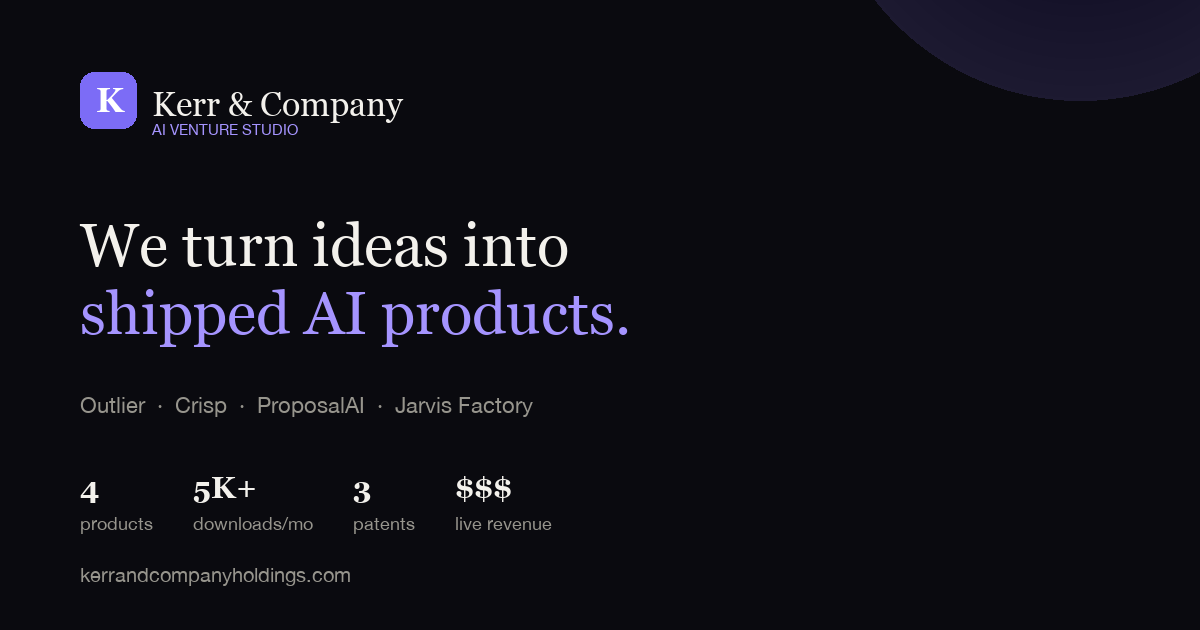
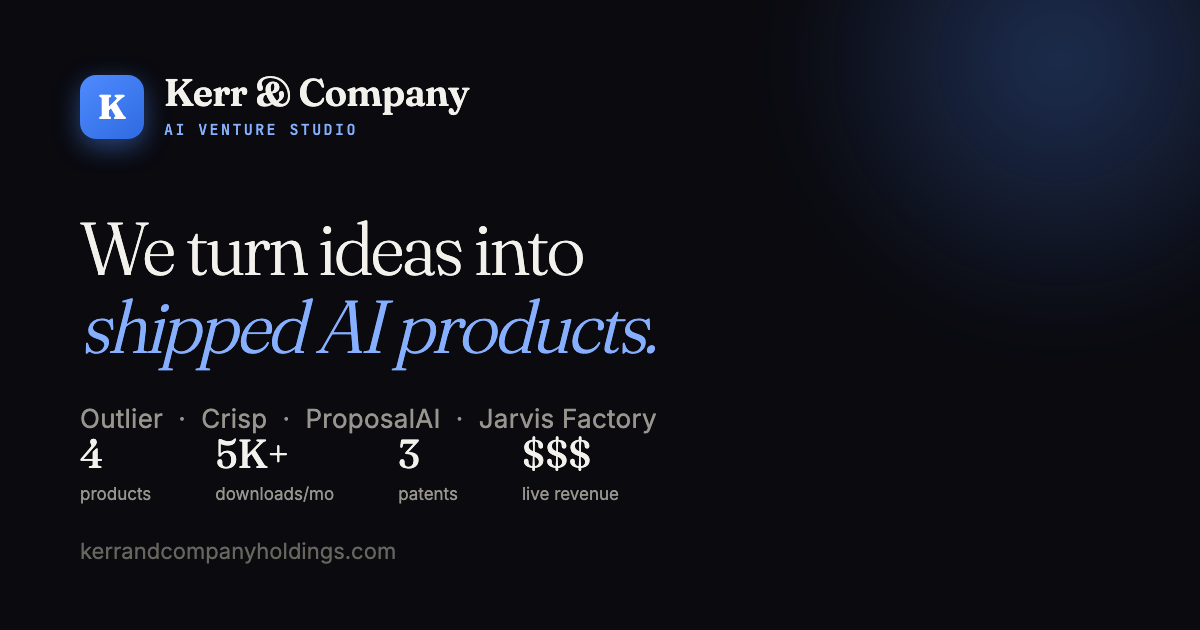
Switch studio theme from purple to blue
Recolor accent palette (CSS vars, gradients, glows, shadows) from violet
to blue, and regenerate favicon, app icons, and OG card to match.

diff --git a/index.html b/index.html
@@ -57,9 +57,9 @@
       --ink-2: #c6c4bd;
       --ink-3: #97958d;
       --ink-4: #66655e;
-      --accent: #8b7bff;
-      --accent-2: #a594ff;
-      --accent-soft: rgba(139,123,255,0.14);
+      --accent: #4f8bff;
+      --accent-2: #86b0ff;
+      --accent-soft: rgba(79,139,255,0.14);
       --gold: #e9b872;
       --green: #5fd38d;
       --green-soft: rgba(95,211,141,0.12);
@@ -80,7 +80,7 @@
 
     /* ambient glows */
     .glow { position: fixed; border-radius: 50%; filter: blur(80px); pointer-events: none; z-index: 0; opacity: 0.55; }
-    .glow-1 { top: -260px; right: -160px; width: 620px; height: 620px; background: radial-gradient(circle, rgba(139,123,255,0.28), transparent 70%); }
+    .glow-1 { top: -260px; right: -160px; width: 620px; height: 620px; background: radial-gradient(circle, rgba(79,139,255,0.28), transparent 70%); }
     .glow-2 { bottom: -300px; left: -200px; width: 560px; height: 560px; background: radial-gradient(circle, rgba(233,184,114,0.10), transparent 70%); }
 
     .wrap { max-width: var(--maxw); margin: 0 auto; padding: 0 clamp(1.25rem, 5vw, 2.5rem); position: relative; z-index: 1; }
@@ -97,8 +97,8 @@
     .brand { display: flex; align-items: center; gap: 0.6rem; text-decoration: none; }
     .brand-mark {
       width: 32px; height: 32px; border-radius: 9px; display: flex; align-items: center; justify-content: center;
-      background: linear-gradient(140deg, var(--accent), #6d5cf0); color: #fff;
-      font-family: var(--serif); font-weight: 700; font-size: 1rem; box-shadow: 0 4px 16px rgba(139,123,255,0.4);
+      background: linear-gradient(140deg, var(--accent), #2f6ae0); color: #fff;
+      font-family: var(--serif); font-weight: 700; font-size: 1rem; box-shadow: 0 4px 16px rgba(79,139,255,0.4);
     }
     .brand-name { font-family: var(--serif); font-weight: 600; font-size: 1.02rem; letter-spacing: -0.01em; }
     .brand-name em { font-style: normal; color: var(--ink-3); font-weight: 400; font-family: var(--sans); font-size: 0.78rem; }
@@ -111,7 +111,7 @@
       background: var(--accent); padding: 0.5rem 1.1rem; border-radius: 8px; white-space: nowrap;
       transition: background .15s, transform .15s, box-shadow .15s;
     }
-    .nav-cta:hover { background: var(--accent-2); transform: translateY(-1px); box-shadow: 0 8px 22px rgba(139,123,255,0.4); }
+    .nav-cta:hover { background: var(--accent-2); transform: translateY(-1px); box-shadow: 0 8px 22px rgba(79,139,255,0.4); }
     @media (max-width: 720px){ .nav-links { display: none; } }
 
     /* HERO */
@@ -133,7 +133,7 @@
     .hero-actions { display: flex; gap: 0.8rem; flex-wrap: wrap; }
     .btn { display: inline-flex; align-items: center; gap: 0.5rem; font-size: 0.92rem; font-weight: 600; padding: 0.8rem 1.5rem; border-radius: 10px; text-decoration: none; transition: all .15s; border: 1px solid transparent; cursor: pointer; }
     .btn-primary { background: var(--accent); color: #fff; border-color: var(--accent); }
-    .btn-primary:hover { background: var(--accent-2); transform: translateY(-2px); box-shadow: 0 12px 30px rgba(139,123,255,0.35); }
+    .btn-primary:hover { background: var(--accent-2); transform: translateY(-2px); box-shadow: 0 12px 30px rgba(79,139,255,0.35); }
     .btn-ghost { background: transparent; color: var(--ink-2); border-color: var(--line-2); }
     .btn-ghost:hover { border-color: var(--ink-3); color: var(--ink); transform: translateY(-2px); }
 
@@ -191,7 +191,7 @@
     .svc-grid { display: grid; grid-template-columns: repeat(auto-fit, minmax(260px, 1fr)); gap: 1.1rem; }
     .svc { background: var(--surface); border: 1px solid var(--line); border-radius: 14px; padding: 1.7rem; transition: border-color .2s, transform .2s; }
     .svc:hover { border-color: var(--line-2); transform: translateY(-3px); }
-    .svc-ic { width: 42px; height: 42px; border-radius: 11px; background: var(--accent-soft); border: 1px solid rgba(139,123,255,0.25); display: flex; align-items: center; justify-content: center; font-size: 1.2rem; margin-bottom: 1.1rem; }
+    .svc-ic { width: 42px; height: 42px; border-radius: 11px; background: var(--accent-soft); border: 1px solid rgba(79,139,255,0.25); display: flex; align-items: center; justify-content: center; font-size: 1.2rem; margin-bottom: 1.1rem; }
     .svc h3 { font-family: var(--serif); font-weight: 500; font-size: 1.2rem; margin-bottom: 0.5rem; letter-spacing: -0.01em; }
     .svc p { font-size: 0.9rem; color: var(--ink-3); line-height: 1.65; }
 
@@ -209,7 +209,7 @@
     /* CONTACT */
     #contact { border-top: 1px solid var(--line); }
     .contact-card { background: linear-gradient(160deg, var(--surface), var(--bg-2)); border: 1px solid var(--line-2); border-radius: 22px; padding: clamp(2.5rem, 6vw, 4.5rem); text-align: center; position: relative; overflow: hidden; }
-    .contact-card::before { content:''; position: absolute; top: -140px; left: 50%; transform: translateX(-50%); width: 460px; height: 300px; background: radial-gradient(circle, rgba(139,123,255,0.22), transparent 70%); pointer-events: none; }
+    .contact-card::before { content:''; position: absolute; top: -140px; left: 50%; transform: translateX(-50%); width: 460px; height: 300px; background: radial-gradient(circle, rgba(79,139,255,0.22), transparent 70%); pointer-events: none; }
     .contact-card h2 { font-family: var(--serif); font-weight: 300; font-size: clamp(2rem, 5vw, 3.2rem); letter-spacing: -0.03em; line-height: 1.1; margin-bottom: 1rem; position: relative; }
     .contact-card h2 em { font-style: italic; color: var(--accent-2); }
     .contact-card p { color: var(--ink-3); font-size: 1.05rem; max-width: 500px; margin: 0 auto 2rem; line-height: 1.7; position: relative; }
@@ -502,7 +502,7 @@
       sc.setAttribute('tabindex','0');
     });
 
-    console.log("%cKerr & Company — AI Venture Studio","font:600 15px ui-sans-serif;color:#8b7bff");
+    console.log("%cKerr & Company — AI Venture Studio","font:600 15px ui-sans-serif;color:#4f8bff");
     console.log("%cWe build and ship real AI products. Want yours built? mattkerr09@gmail.com","color:#97958d");
   </script>
 </body>
